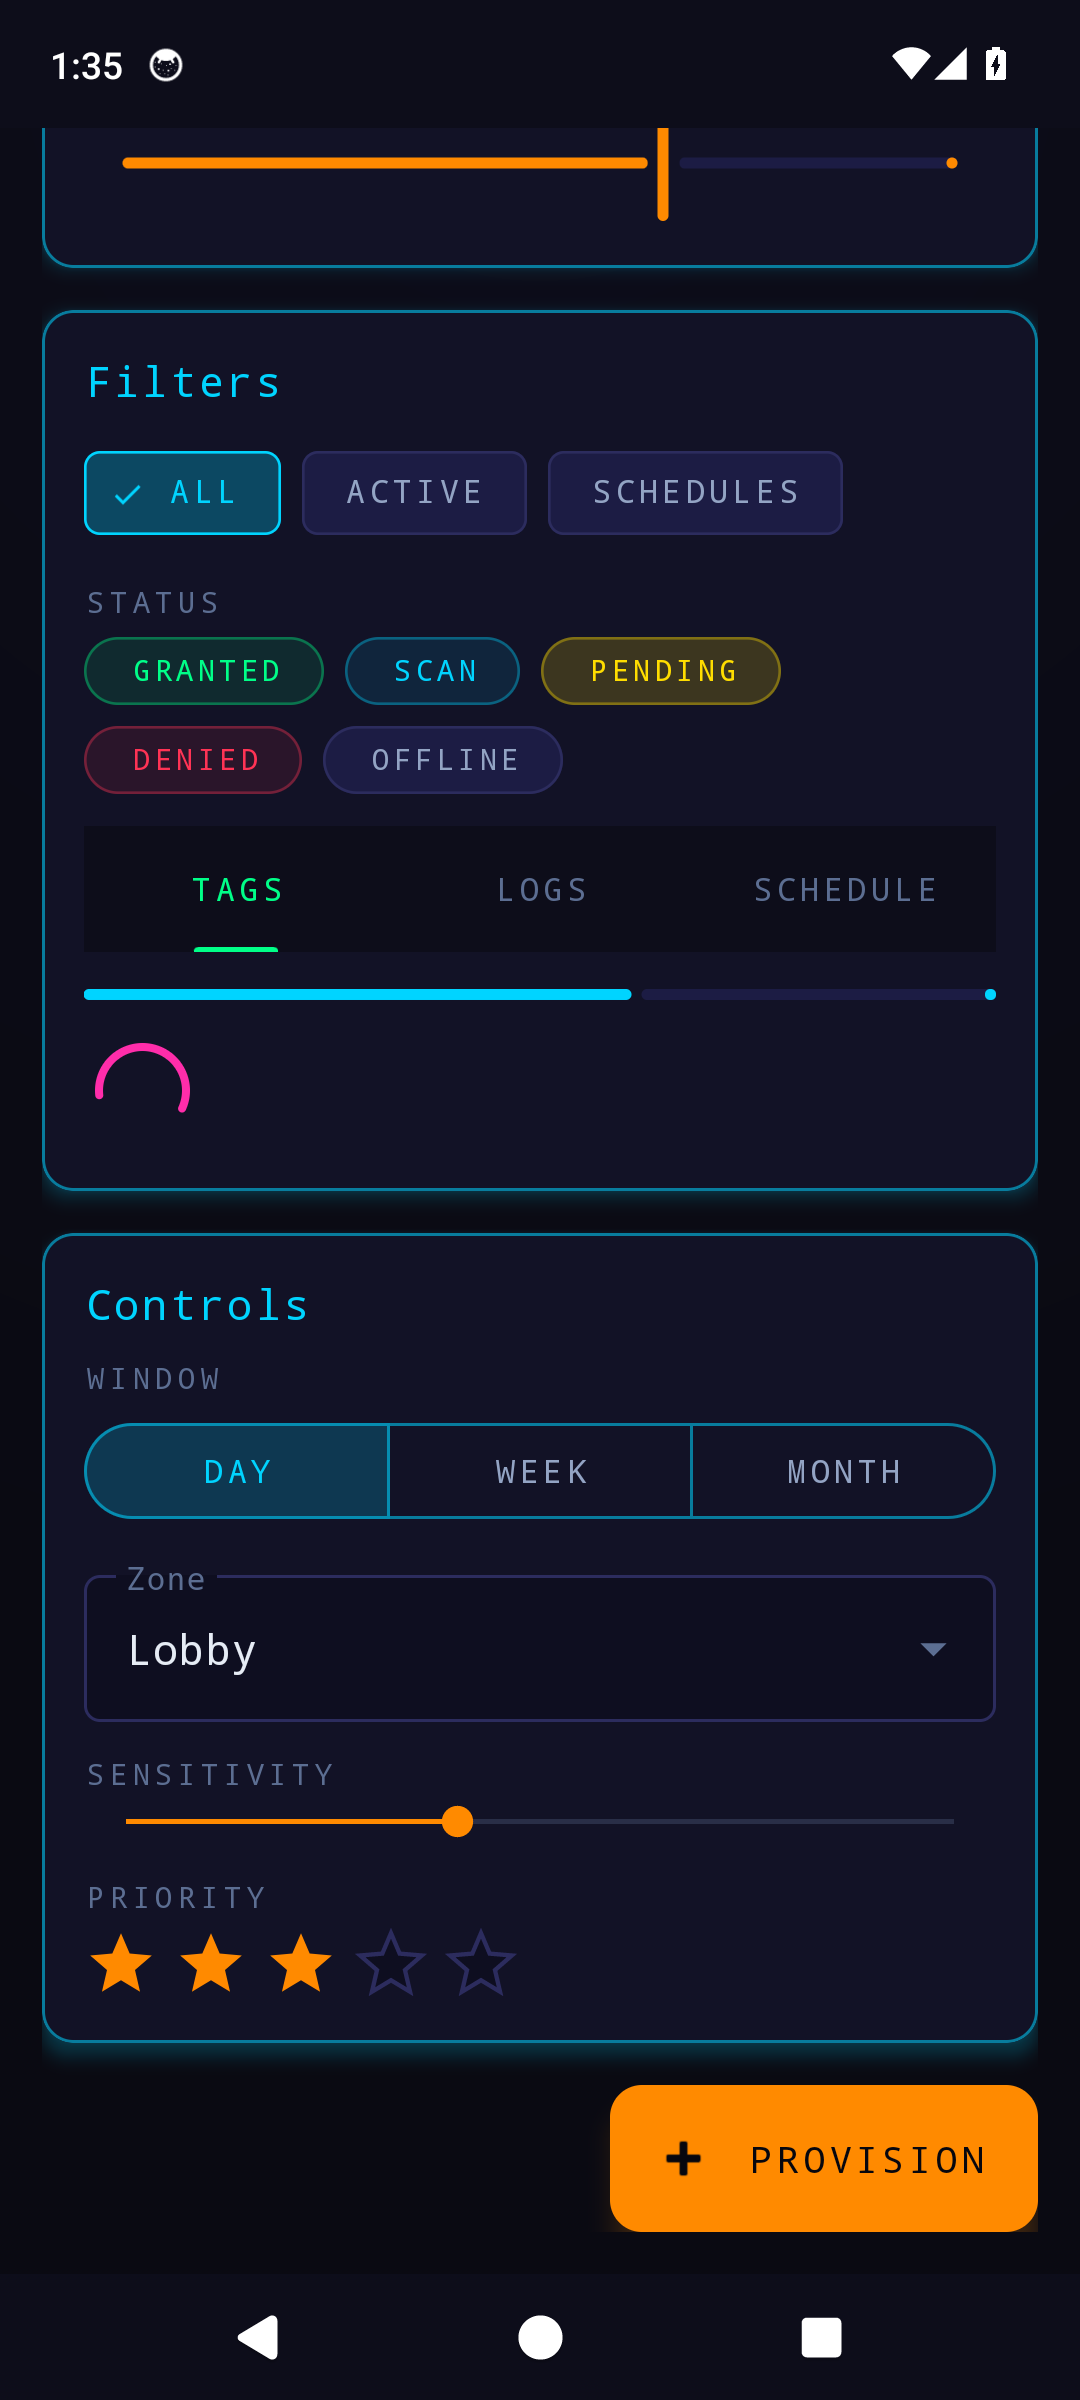
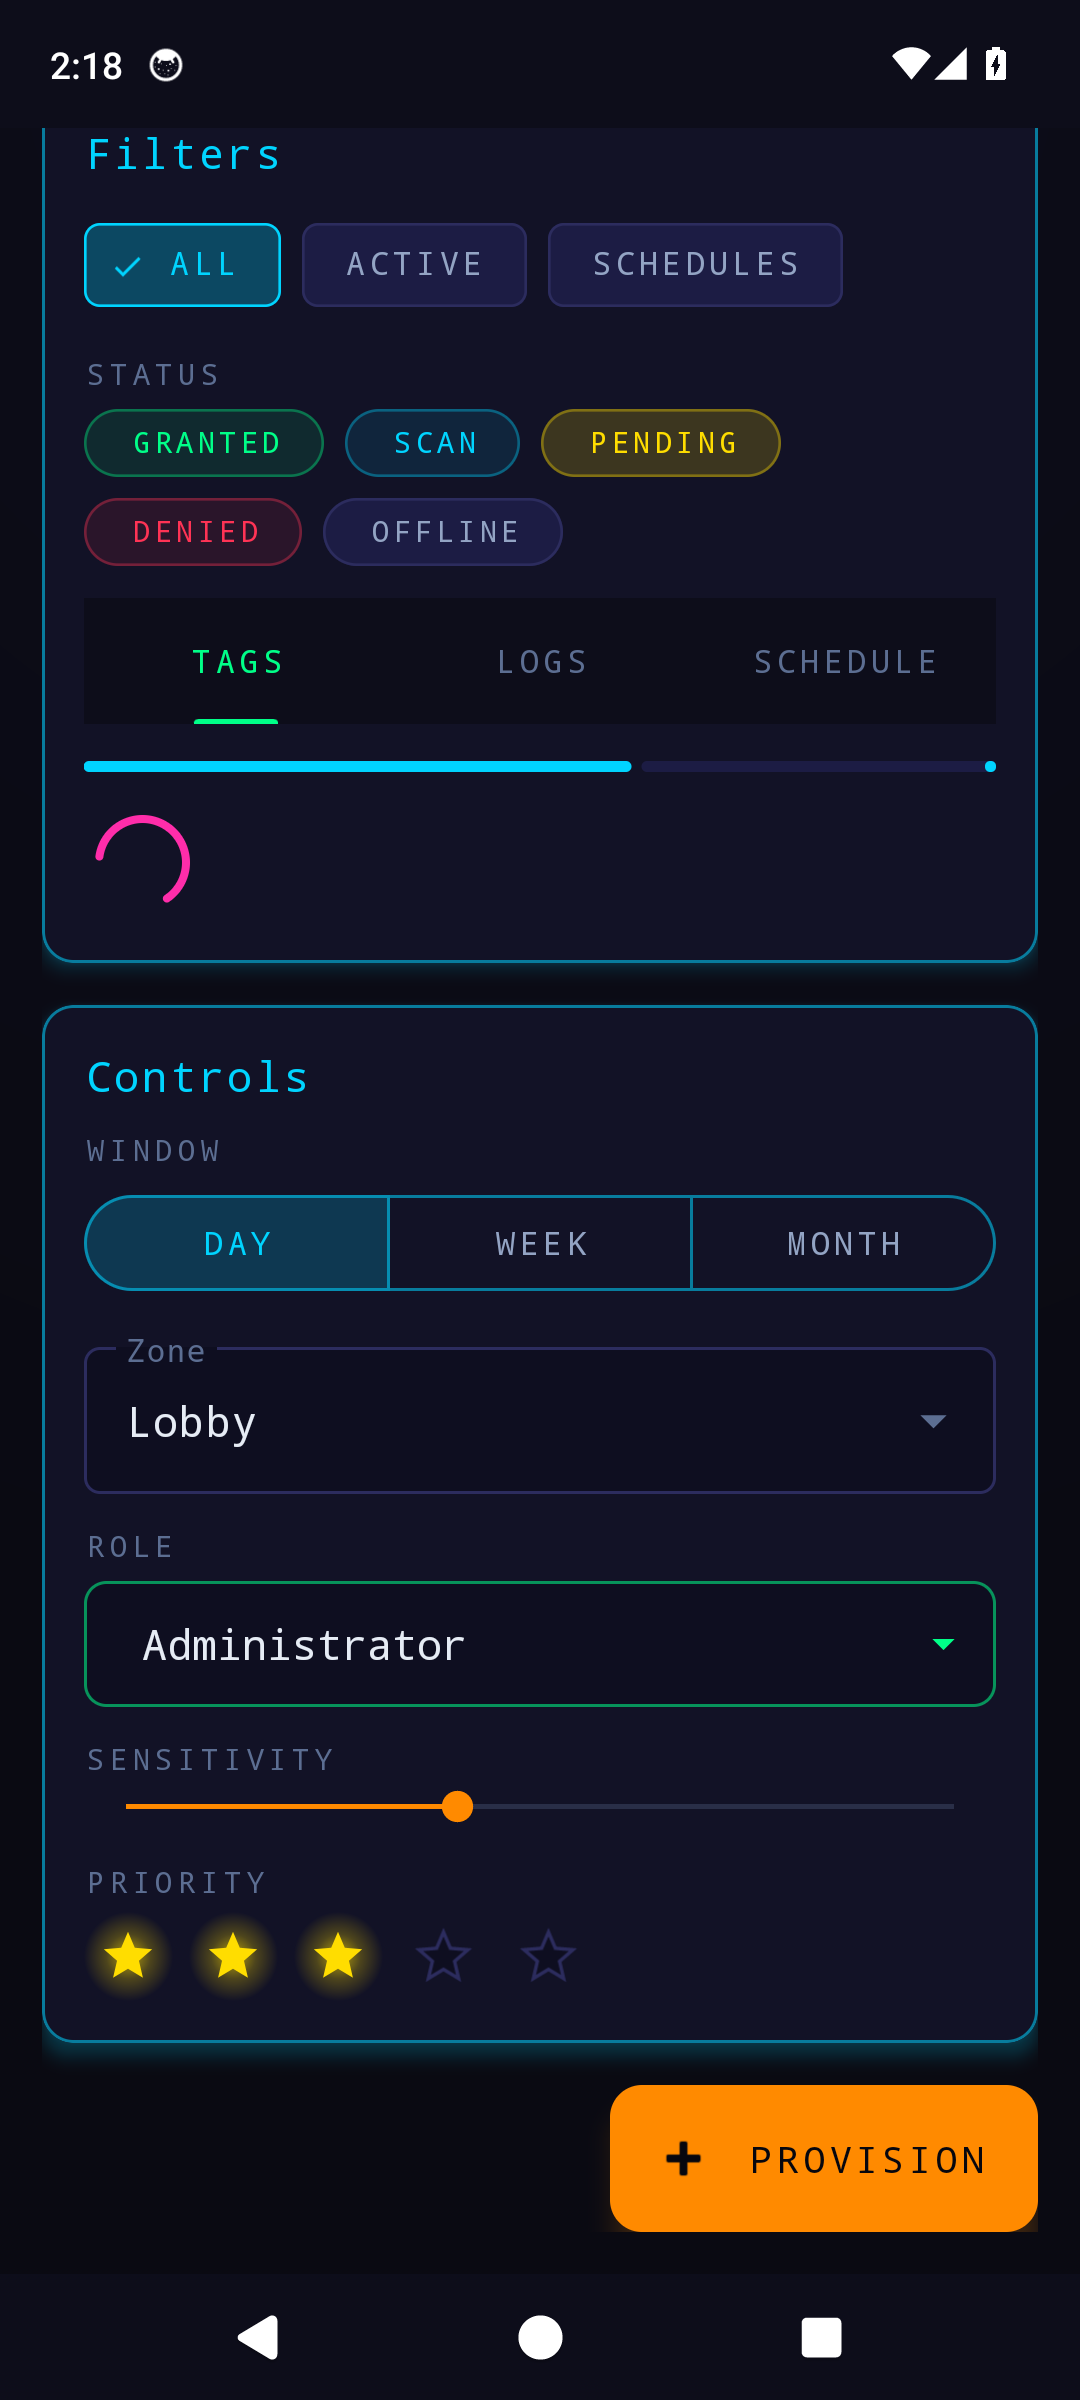
Neon glow stars, clean secondary Spinner, focus/error field glows
- Stars: neon yellow with a radial glow halo (ng_star_filled = halo + solid core;
  ng_star_empty padded to match the footprint so the row stays aligned).
- Spinner: custom anti-aliased box (rounded rect + vector caret) in the secondary
  role, replacing the platform jagged underline + bitmap caret; demoed via
  android:entries.
- Field glows: the required-but-empty (error) field glows red and the focused
  field glows cyan, via colored elevation shadows applied in the demo Activity
  (card/column clip flags relaxed so the halo can spill into the padding).

diff --git a/android/sample/src/main/java/com/nickbether/neongrid/sample/MainActivity.java b/android/sample/src/main/java/com/nickbether/neongrid/sample/MainActivity.java
@@ -1,20 +1,60 @@
 package com.nickbether.neongrid.sample;
 
+import android.graphics.Outline;
+import android.os.Build;
 import android.os.Bundle;
+import android.view.View;
+import android.view.ViewOutlineProvider;
+import android.widget.EditText;
 import androidx.appcompat.app.AppCompatActivity;
 import com.google.android.material.textfield.TextInputLayout;
 
 /** Demo host: applies Theme.NeonGrid and shows the widget showcase from the theme library. */
 public class MainActivity extends AppCompatActivity {
+
+    private static final int GLOW_RED = 0xFFFF3355;
+    private static final int GLOW_CYAN = 0xFF00D4FF;
+
     @Override
     protected void onCreate(Bundle savedInstanceState) {
         super.onCreate(savedInstanceState);
         setContentView(com.nickbether.neongrid.R.layout.ng_showcase);
+        final float d = getResources().getDisplayMetrics().density;
 
-        // Show the error state so the red error styling is visible in the demo.
+        // A required field that gained then lost focus → persistent red error with a neon glow.
         TextInputLayout person = findViewById(com.nickbether.neongrid.R.id.ng_field_person);
         if (person != null) {
             person.setError("Required field");
+            applyGlow(person, GLOW_RED, d);
+        }
+
+        // A field that currently holds focus → cyan neon glow. Focus it without popping the
+        // soft keyboard so the static showcase reads cleanly.
+        TextInputLayout tag = findViewById(com.nickbether.neongrid.R.id.ng_field_tag);
+        if (tag != null && tag.getEditText() != null) {
+            final EditText et = tag.getEditText();
+            et.setShowSoftInputOnFocus(false);
+            et.post(new Runnable() {
+                @Override public void run() {
+                    et.requestFocus();
+                    applyGlow(tag, GLOW_CYAN, d);
+                }
+            });
+        }
+    }
+
+    /** Soft colored halo around a view via a colored elevation shadow (API 28+ tints the shadow). */
+    private void applyGlow(final View v, final int color, final float d) {
+        final int corner = Math.round(8 * d);
+        v.setOutlineProvider(new ViewOutlineProvider() {
+            @Override public void getOutline(View view, Outline outline) {
+                outline.setRoundRect(0, 0, view.getWidth(), view.getHeight(), corner);
+            }
+        });
+        v.setElevation(8 * d);
+        if (Build.VERSION.SDK_INT >= Build.VERSION_CODES.P) {
+            v.setOutlineSpotShadowColor(color);
+            v.setOutlineAmbientShadowColor(color);
         }
     }
 }